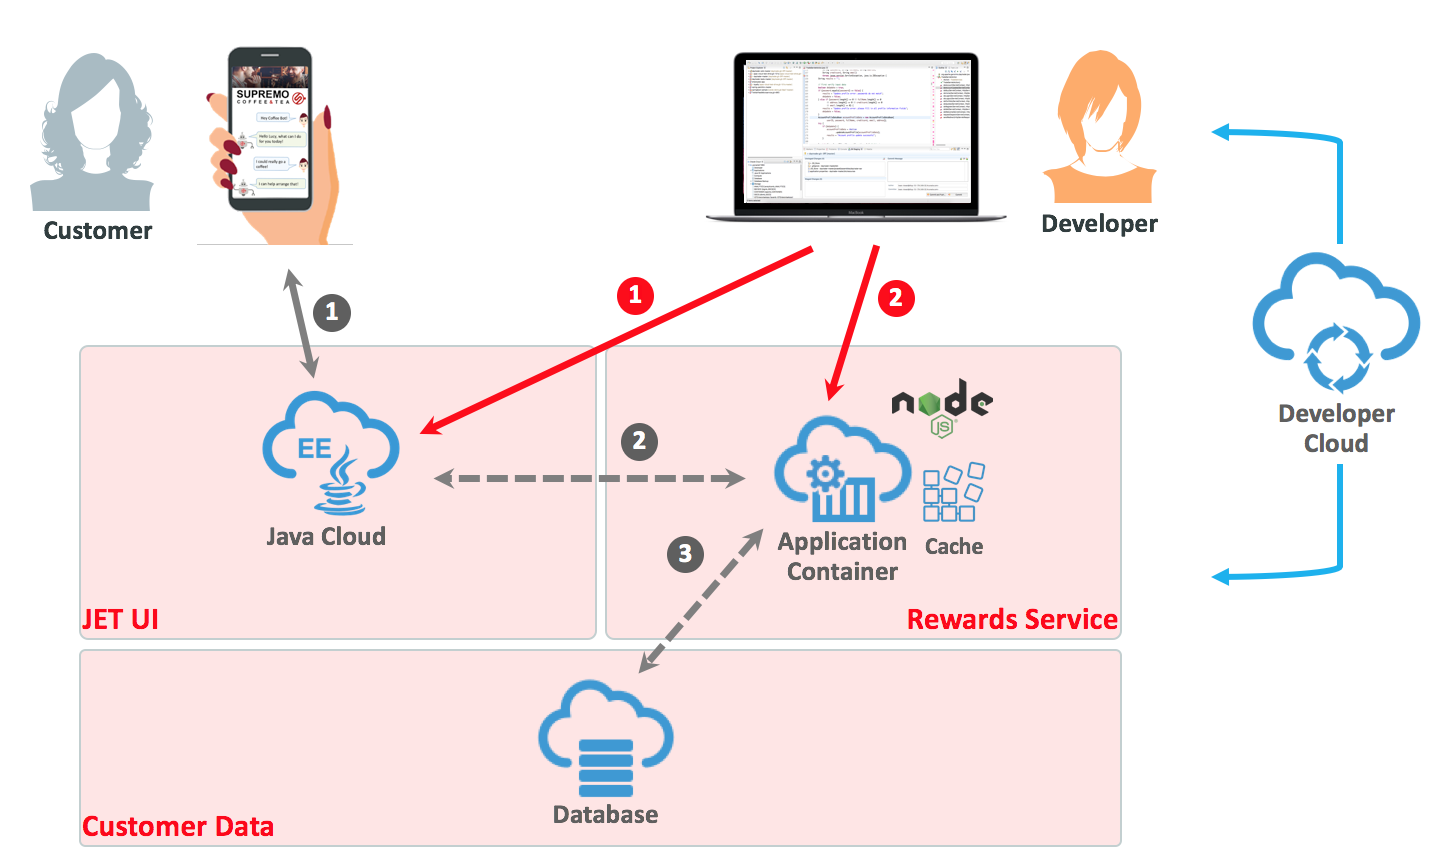
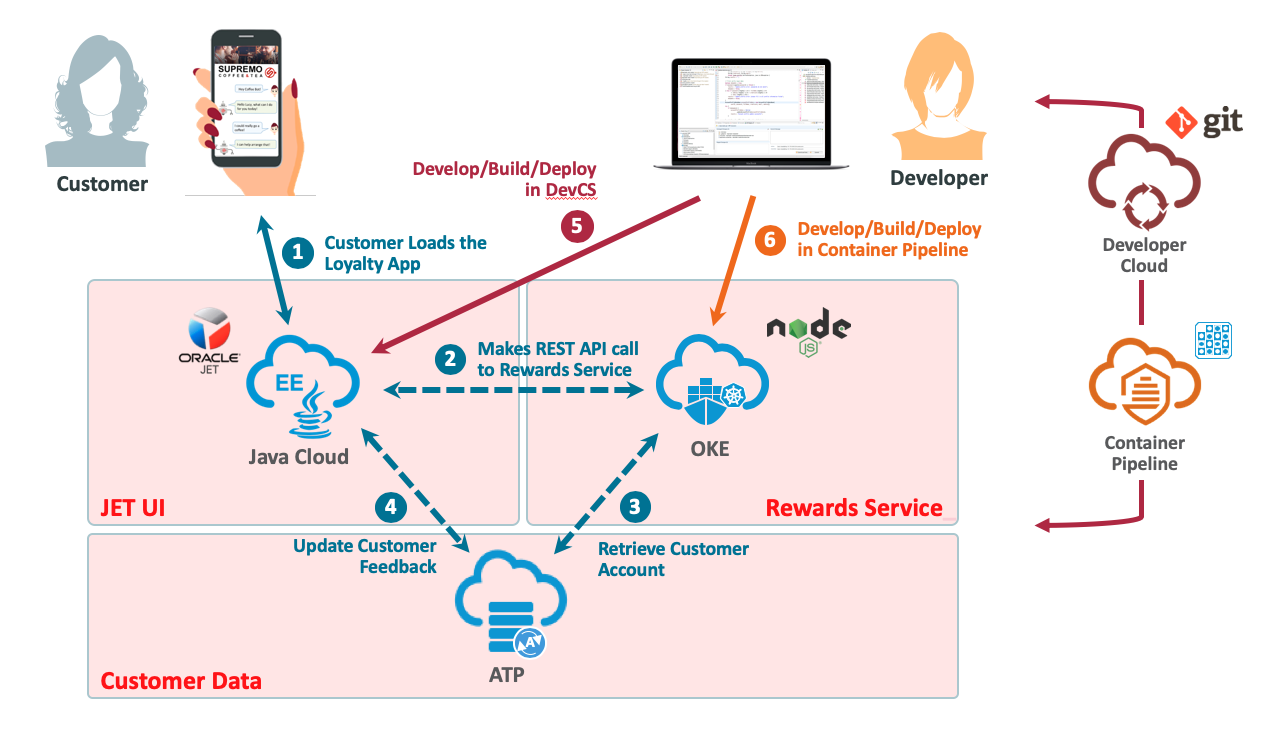
Refreshed Lab100

Changed region(s): [[0.0, 0.0301, 0.9961, 0.9945]]

diff --git a/100-PREPARElab.md b/100-PREPARElab.md
@@ -6,26 +6,35 @@
 
 During this part of the lab, you will take on the **DevOps Engineer Persona**. You will provision the required cloud services for Developer Cloud Service to build and deploy to a WebLogic Server cluster in Java Cloud Service and work with Oracle Cloud Platform tools. You must have access to a:
 
-- GitHub account
-- Oracle Public Cloud Service account including Java, Developer, Database and Storage Classic Cloud Service
+- Oracle Public Cloud Service Account
+- Java Cloud Service (JCS)
+- Database Cloud Service (DBCS) or Autonomous Transaction Processing (ATP)
+- Developer Cloud Service (DevcS)
+- Compute Classic Cloud Service
+- Storage Classic Cloud Service
 
-The current release of the application no longer requires a database for storing customer data. Customer data is now stored in a ACCS cache and is automatically populated upon the start up of the RewardService ACCS instance. This is to keep the lab duration short and to avoid the laborious effort in uploading the data to a database. However, a database would be required as a persistent storage in real case scenario.
 
-However, an Oracle Database Cloud Service is still required by Java Cloud Service to host the Oracle Fusion Middleware component schemas used by Oracle Java Required Files (JRF).
+An Oracle Database Cloud Service or ATP is required by Java Cloud Service for storing its configurations and to host the Oracle Fusion Middleware component schemas used by Oracle Java Required Files (JRF).
+
+Customer data can be stored in the same DBCS or ATP instance. However, for this lab, the customer data is already populated in a separate ATP instance. This is to keep the lab duration short and to avoid the laborious effort in uploading the data to a database. This customer database will be shared by all attendees.
 
 
 ## About This Exercise
 
 In this exercise, we will:
-- Create and configure a Database Cloud Service (DBCS) instance to hold the JCS (WebLogic) configuration (Optional)
-- Create and configure a Java Cloud Service (JCS) (WebLogic) instance to host the JET UI frontend
-- Create and configure a Developer Cloud Service (DevCS) Build VM to build our application
+- Create and configure a DBCS or ATP instance to hold the JCS (WebLogic) configuration (Optional)
+- Create and configure a JCS (WebLogic) instance to host the JET UI frontend
+- Create and configure a Developer Cloud Service (DevCS) Build VM to build yo application
 
 
 
-## Provision a Database Cloud Service (DBCS) Instance
+## Provision a Database Cloud Service (DBCS) or Autonomous Transaction Processing Instance (ATP)
 
-This step is optional. Due to the time it takes to provision an instance, the instructor may have already created one for you. It also make sense that a single DBCS instance is shared by all lab participants, hence there is no need to create separate instances. The following steps are for your reference and you may dive into an existing instance to explore its configuration and administration tools.
+**This step is Optional**
+
+**You will be advised by you instructor**
+
+Due to the time it takes to provision an instance, the instructor may have already created one for you. It also make sense that a single DBCS/ATP instance should be shared by all lab participants, hence there is no need to create separate instances. The following steps are for your reference and you may dive into an existing instance to explore its configuration and administration tools.
 
 
 ### **STEP 1**: Sign Into The Oracle Cloud Service Account
@@ -91,7 +100,7 @@ The following parameters have to be provided:
 
 **NOTE**:  Your DBCS instance will take about 30 minutes to complete. Please wait until the DBCS instance has been completed before creating a JCS instance. Whilst we are waiting for the DBCS instance to be provisioned, we can work on other infrastructure components such as Developer Cloud Service.
 
-- Once your DBCS is ready your instance should appear similar to below:
+- Once your DBCS is ready, your instance should appear similar to below:
 
    ![](images/3.2.png)
 
@@ -102,11 +111,13 @@ The following parameters have to be provided:
 
 ## Provision a Java Cloud Service (JCS) Instance
 
-For this part of the lab, you would need a DBCS instance to complete the JCS configuration.
+For this part of the lab, you would need a DBCS/ATP instance to complete the JCS configuration.
 
 - Please verify the provisioning of a DBCS instance in **Step 2** has completed and is up and running
 
 - If this is running, then proceed to the following steps, otherwise, please wait until it is ready.
+
+**NOTE**: If a DBCS/ATP instance is provisioned by your instructor, he will provide you with the access detail.
 
 
 
@@ -129,9 +140,13 @@ For this part of the lab, you would need a DBCS instance to complete the JCS con
 - Enter the following parameters:
 
   - **Instance Name**: `demoJCS`
-  - **Service Level**: `Java Cloud Service`
+  - **Region**: `us-ashburn-1` or `us-phoenix-1` for your tenancy
+  - **Availability Domain**: `AD1` default
+  - **Subnet**: `ManagedCompartmentForPaaS` select from the dropdown list
+  - **License Type**: `Subscribe to a new Oracle Java Cloud Service software license`
+  - **Service Level**: `Oracle Java Cloud Service`
   - **Software Release**: `12c Software Release (12.2.1.2)`
-  - **Software Edition**: `Enterprise Edition software edition`
+  - **Software Edition**: `Enterprise Edition`
   - Leave the rest to default
 
 - Click **Next**
@@ -145,15 +160,14 @@ For this part of the lab, you would need a DBCS instance to complete the JCS con
 
 The following parameters have to be provided:
 
-  - **Shape**: `OC3 - 1.0 OCPU, 7.5 GB RAM` this is the smallest one (default)
+  - **Shape**: `VM.Standard2.1 - 1.0 OCPU, 15.0GB RAM` this is the smallest one (default)
   - **Server Count**: `1` which means one managed server
   - **Domain Partitions**: `zero` for no partitions (default)
   - **Enable access to Administration Console**: `Checked` to get access to the Admin console
   - **Deploy Sample Application**: `Unchecked`
-  - **Enable authentication with Oracle Identity Cloud Service**: `Unchecked`
-  - **SSH Public Key**: public key which will be uploaded to the VM during the creation
-    - It allows to connect to the VM through ssh connection using the private key.
-    - Click on **Edit** button and select the same publicKey what was generated for Database Cloud Service instance    
+  - **SSH Public Key**: Provide a public key which will be uploaded to the VM during the creation. It allows you to connect to the VM through ssh connection using the private key.
+    - Click on **Edit** button
+    - If you don't have or want to create a new key pair then select **Create a New Key** option and select **Enter** to download the newly generated keypair for later usage
   - **Username**: `weblogic` username of WebLogic administrator
   - **Password**: WebLogic administrator's password. Don't forget to note the provided password.
   - **Database Instance Name**: `demoDB` Database Cloud Service name to store WebLogic repository data. Your provisioned DBCS instance will appear in the dropdown list.
@@ -175,7 +189,7 @@ When the request has been accepted, the Java Cloud Service Console page appears 
 
 **NOTE**: Your JCS instance will be ready in about 30 minutes. Whilst we are waiting for the JCS instance to be provisioned, we can work on other components such as Developer Cloud Service.
 
-*You have now completed the provisioning of the JET UI frontend JCS instance.*
+*You have now completed the provisioning of a JCS instance for hosting the JET UI frontend.*
 
 
 
@@ -190,13 +204,15 @@ It is recommended to use the Autonomous Developer Cloud Service as it offers a d
 
 Oracle Developer Cloud Build VMs runs on Oracle Linux 6 or Oracle Linux 7, and supports a variety of software such as Node.js, Docker, and Oracle SOA Suite. The platform and the software in Build VMs are defined by Build VM templates.
 
+Since the Build VM is Compute instance, this can be shared among developers. This mean we not required one dedicated Build VM for each developer or attendee. Only need a few Build VM to be shared across the project team or participants. Hence, we have already provisioned the Build VMs for you.
 
 
-### **STEP 4**: Open the Automonous Developer Cloud Console
+
+### **STEP 4**: Open the Autonomous Developer Cloud Console
 
 - Ensure you are opening the Autonomous DevCS and NOT the Traditional DevCS
 
-- On the dashboard click the hamburger icon on the **Autonomous Developer** tile. Select **Open Service Console**
+- On the dashboard click the hamburger icon on the **Autonomous Developer** tile. Select **Open Service Console** OR select from the expanded Dashboard menu on the left hand side.
 
   ![](images/14.png)
 
@@ -220,29 +236,29 @@ In this section, you learn how to create a basic Build VM template that includes
 
 - In the New VM Template dialog box, enter the following details:
 
-  - **Name**: `CafeSupremo`
+  - **Name**: `Your Name` enter your name
   - **Description**: `A Build VM template with minimum required software`
   - **Platform**: `Oracle Linux 7`
 
-  ![](images/20.png)
+    ![](images/20.png)
 
 - Click **Create**
 
-A Build VM template named **CafeSupremo** is created. It includes just the required Build VM components. The right side of the page displays the details for this Build VM.
+A Build VM template with your name **Your Name** is created. It includes just the required Build VM components. The right side of the page displays the details for this Build VM.
 
 
 
 #### **STEP 4.2**: Configure the Software of a Build VM Template
 
-The CafeSupremo template contains the minimum software required to run basic builds. We need to add additional software to the template in order to build our JET UI frontend and Node.js RewardService microservice.
+The VM template contains the minimum software required to run basic builds. We need to add additional software to the template in order to build our JET UI frontend.
 
-  - In the **Build VM Templates** tab, select the template named **CafeSupremo**
+  - In the **Build VM Templates** tab, select the template you just created.
 
   - On the right side of the page, click **Configue Software**
 
   ![](images/17.png)
 
-  - Select **Gradle 4** and **Node.js 6** from the list of software by clicking the **Add** `+` icon on that tile.
+  - Select **Gradle 4** from the list of software by clicking the **Add** `+` icon on that tile.
 
   ![](images/18.png)
 
@@ -251,10 +267,20 @@ The CafeSupremo template contains the minimum software required to run basic bui
     ![](images/19.png)
 
 
+**NOTE**: You have just created your template. However, we won't be using this as the instructor has already created one earlier name **CafeSupremo** and assigned it to a number of Build VMs. You may explore the CafeSupremo Build VM Template and the configured software packages should be the same as the template you just created.
 
-#### **STEP 4.3**: Create a Virtual Machine for Build and Develop
 
-Oracle Developer Cloud Service projects use Oracle Cloud Infrastructure Compute Classic virtual machines (VMs) to run builds. In order to create this build VM for Developer Cloud Service, we need to capture some service detail from the Oracle Cloud Infrastructure Compute Classic for configuration.
+#### **STEP 4.3**: Configure a Compute Account for Build VMs
+
+**This step is Optional**
+
+**You will be advised by you instructor**
+
+DevCS project builds run on OCI Compute Classic virtual machines (VMs). Before you can use DevCS on Oracle Cloud Infrastructure or Oracle Cloud Infrastructure Classic, you must configure a connection to OCI Compute Classic.
+
+To create the connection, you need the service ID and the REST Endpoint URL for OCI Compute Classic, plus the credentials of a user.
+
+**NOTE**: This may have already been configured for you.
 
 - In another browser tab or window, open Oracle Cloud Dashboard
 
@@ -287,9 +313,31 @@ Oracle Developer Cloud Service projects use Oracle Cloud Infrastructure Compute 
 
 - Click on **Save**
 
-You have now created a Build VM for for your build jobs. The initial status will be in the STOPPED state.
+*You have now set a Compute Account to use the Oracle Cloud Infrastructure Compute Classic*
+
+
+#### **STEP 4.4**: Create a Virtual Machine for Build and Develop
+
+**This step is Optional**
+
+**You will be advised by you instructor**
+
+When you add a Build VM, you allocate a VM on the linked Oracle Cloud Infrastructure Compute Classic service to be used to run builds of jobs. Each build runs in one build executor, or one VM. You can build up to 99 builds in parallel using the same Build VM template.
+
+If you have multiple jobs across projects using a common Build VM template, you assign multiple Build VMs of that template. When builds of those jobs run, DevCS picks a VM that’s available without waiting for a busy VM to get free.
+
+- Click **New VM**
 
   ![](images/24.png)
+
+- In the Add Build VM dialog box, in Quantity, specify the number of VMs you want to allocate. In VM Template, select the Build VM template.
+
+  ![](images/135.png)
+
+
+*You have now created a Build VM for for your build jobs. The initial status will be in the STOPPED state.*
+
+
 
 
 ### You have finished this lab section.

diff --git a/README.md b/README.md
@@ -12,37 +12,40 @@ The lab will also show how to work with Open Source tools in Oracle Developer Cl
 
 ## Continuous Integration and Continuous Delivery Hands On Lab
 
-The CI/CD lab is a good deep dive workshops for architects, project leads and developers. This requires about 3 hours to complete. This lab provide a hands on experience in setting up the complete end-to-end CI/CD pipeline on Oracle Cloud Platform and demonstrating how your modernise existing application by bringing your code into Oracle's Cloud Platform.
+The CI/CD lab is a good deep dive workshops for architects, project leads and developers. This requires about 3 hours to complete. This lab provide a hands on experience in setting up the complete end-to-end CI/CD pipeline on Oracle Cloud Platform and demonstrates how you can modernise existing application by bringing your code into Oracle's Cloud Platform.
 
 This lab will show you how to automate your workflow with Developer Cloud Service:
 
-*	Project creation, configuration, and user management
+*	Provisioning of your environment
+* Project creation, configuration, and user management
 * Importing your code
 *	Agile development
 *	Integrated issue tracking for tasks, bugs, and enhancements
-*	Source code repository through Git to store your application source
+*	Source code management through Git to store your application code
 *	Code Review enabled with Team Collaboration
 *	Continuous software build integration
-*	Deployment to an Oracle Java Cloud Service and Application Container Cloud Service
+*	Deployment to an Oracle Java Cloud Service
 
 
 
 ## Scenario
 
-You are an application developer who will be developing a brand new cloud native loyalty application for Café Supremo, which will be deployed to the Oracle Cloud. The reason why you want to adopt a cloud native approach has partially been driven by the need to go to market quicker, by delivering new features more frequently, but also more reliably. You may be developing a new application you simply want to modernise an existing application by taking advangate of a cloud platfomr and a modern development approach. You can for example do this by developing Microservices that has less dependency on other services, as well as the footprint being smaller and easier to deploy. What’s also attractive with Microservices is that you can use the best programming language for the job. So, you could end up with a polyglot application. To be able to deliver this new style of cloud native application approach, you will need to adopt the Agile development practice to continuously integrate and deliver these services and features. The application basically consists of two parts:
+You are an application developer who will be developing a cloud native loyalty application for Café Supremo, which will be deployed to the Oracle Cloud. The reason why you want to adopt a cloud native approach has partially been driven by the need to go to market quicker, by delivering new features more frequently, but also more reliably. You may be developing a brand new application or you simply want to modernise an existing application by taking advangate of a cloud platform and a modern development approach.
 
-1. The user interface that is built using Oracle JET framework, packaged as a WAR file and deployed to a Java Cloud Service instance.
-2. The Reward Service backend service, which is a Microservice written in Node.js running in a Docker container and hosted in a Kubernetes cluster.
-3. The customer data is stored in the Database Cloud Service.
+You can for example do this by developing Microservices that has less dependency on other services, as well as the footprint being smaller and easier to deploy. What’s also attractive with Microservices is that you can use the best programming language for the job. So, you could end up with a polyglot application. To be able to deliver this new style of cloud native application approach, you will need to adopt the Agile development practice to continuously integrate and deliver these services and features. The application basically consists of two parts:
+
+1. The user interface is built using Oracle JET framework, packaged as a WAR file and deployed to a Java Cloud Service instance
+2. The Reward Service backend service, which is a Microservice written in Node.js running in a Docker container and hosted in a Kubernetes cluster
+3. The customer data is stored in the Database Cloud Service or Autonomous Transaction Processing database
 
 
 ![](images/architecture.png)
 
-You will use DevCS as the core CI/CD software lifecycle management tool for your Agile development and DevOps pipeline. A developer could use their favourite IDE or editor to write their code. In this scenario a developer will be using an open source editor called Brackets which can synchronise the code changes with the Git repository in Developer Cloud Service.
+You will use Developer Cloud Service (DevCS) as the core CI/CD software lifecycle management tool for your Agile development and DevOps pipeline. A developer could use their favourite IDE or editor to write their code. In this scenario a developer will be using an open source editor called Brackets which can synchronise the code changes with the Git repository in Developer Cloud Service.
 
 Different developers or teams can work independently on the JET UI frontend and the Node.js Rewards Service backend. The two parts can be integrated and delivered continuously through Oracle Developer Cloud Service.
 
-A project manager will be logging into Developer Cloud Service and manage the Café Supremo project from issue tracking to tracking the build, deploy and release progress.
+A project manager can log into Developer Cloud Service and manage the Café Supremo project from issue tracking to tracking the build, deploy and release progress.
 
 
 ## Prerequisites ##
@@ -69,7 +72,7 @@ There are four parts to the lab with each focusing on different aspect of Cloud 
 [Click Here to Lab 200: Import Your Code](200-IMPORTlab.md)
 
 
-## 300: Create Continuous Integration and Continuous Devlivery Pipeline in Oracle Developer Cloud Service
+## 300: Create Continuous Integration and Continuous Delivery Pipeline in Oracle Developer Cloud Service
 
 [Click Here to Lab 300: Create CI/CD Pipeline in DevCS](300-DEVCSlab.md)
 
